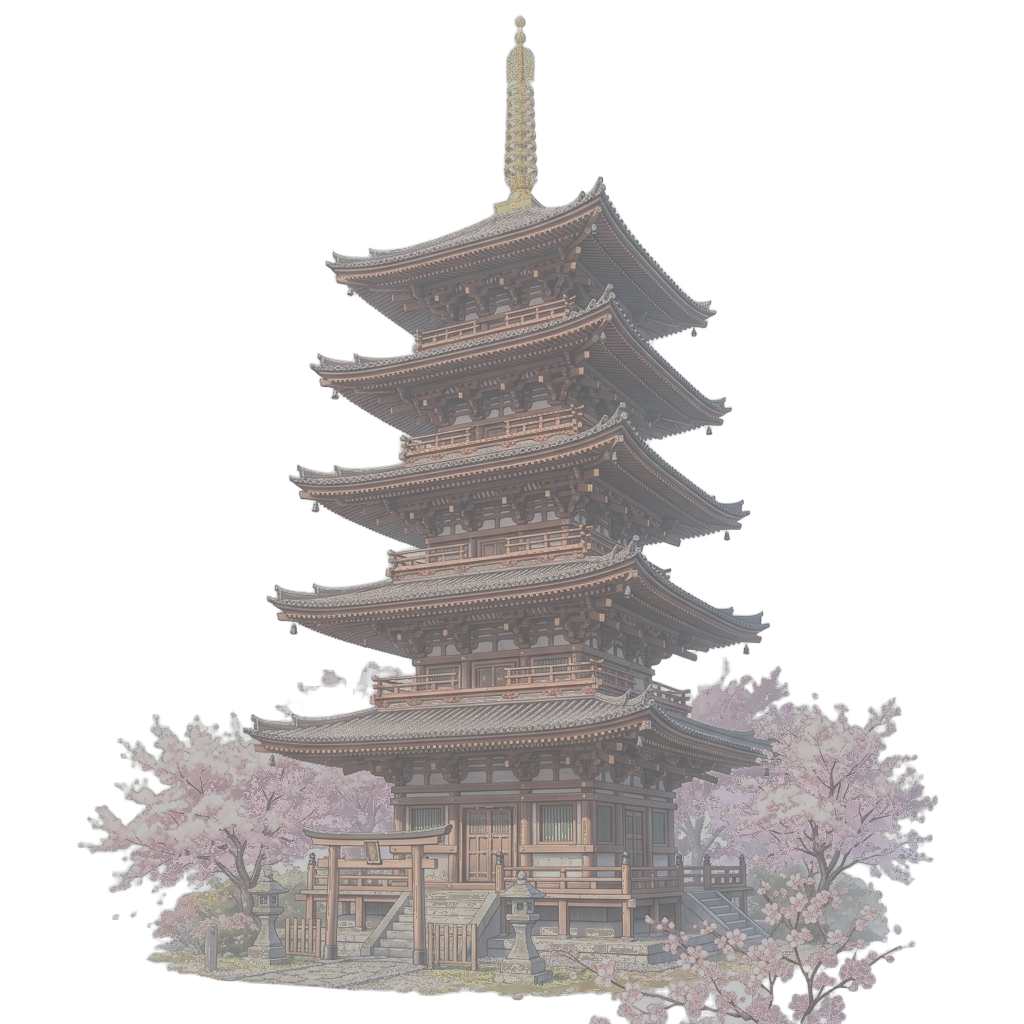
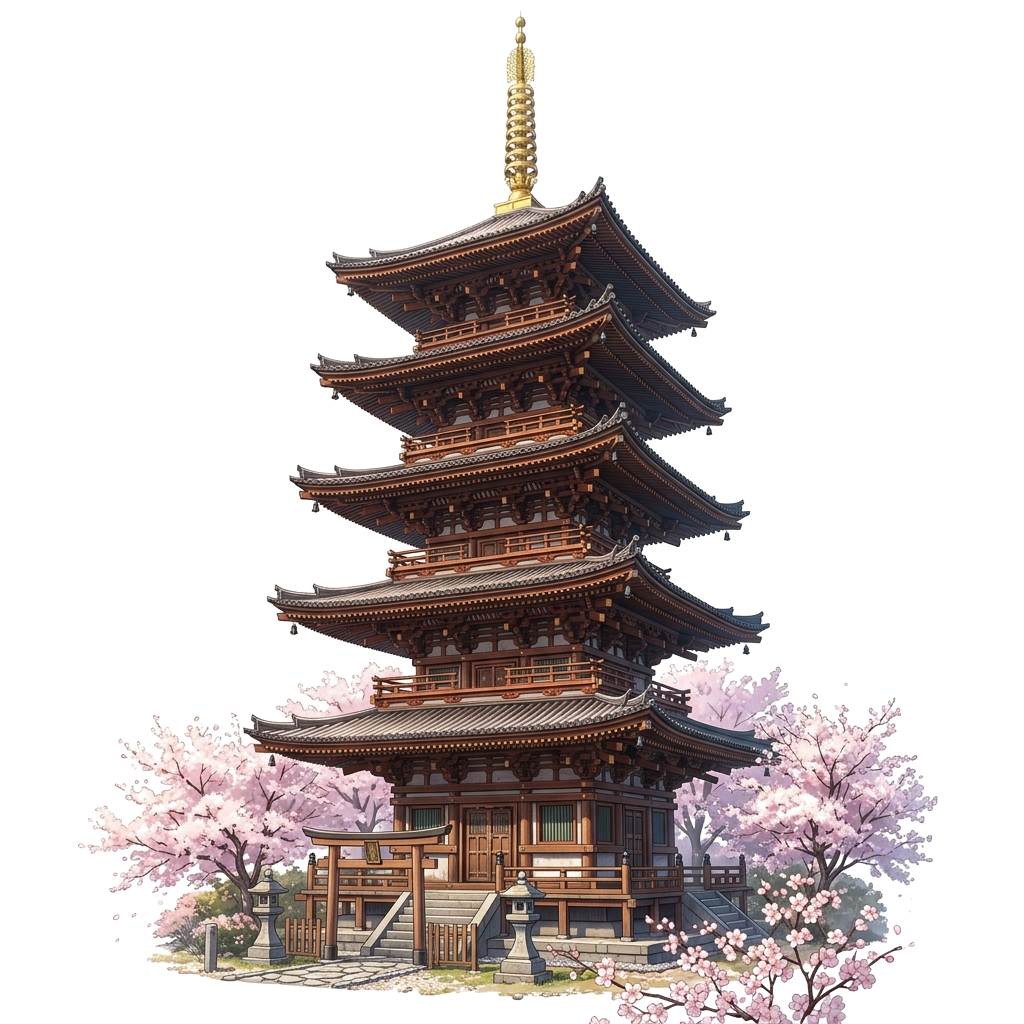
Apply user reference couple image style, restore smooth building cutouts, and enable trilinear mipmap texture filtering

diff --git a/index.html b/index.html
@@ -727,10 +727,10 @@
         // --- 8. HELPER FUNCTIONS & EXACT CHARACTER ASPECT RATIOS ---
         function createBillboard(texPath, width, height) {
             const tex = textureLoader.load(texPath);
-            if (THREE.SRGBColorSpace) tex.colorSpace = THREE.SRGBColorSpace;
-            else if (THREE.sRGBEncoding) tex.encoding = THREE.sRGBEncoding;
-            tex.minFilter = THREE.LinearFilter;
-            const mat = new THREE.MeshBasicMaterial({ map: tex, transparent: true, side: THREE.DoubleSide, alphaTest: 0.12, toneMapped: false });
+            tex.generateMipmaps = true;
+            tex.minFilter = THREE.LinearMipmapLinearFilter;
+            tex.magFilter = THREE.LinearFilter;
+            const mat = new THREE.MeshBasicMaterial({ map: tex, transparent: true, side: THREE.DoubleSide, alphaTest: 0.12 });
             return new THREE.Mesh(new THREE.PlaneGeometry(width, height), mat);
         }
 
@@ -739,9 +739,9 @@
             2: 674 / 1002,  // 0.673
             3: 616 / 934,   // 0.660
             4: 520 / 1002,  // 0.519
-            5: 694 / 989,   // 0.702
-            6: 3 / 4,       // 0.750
-            7: 527 / 955,   // 0.552
+            5: 3 / 4,       // 0.750 - Matching user reference art style
+            6: 3 / 4,       // 0.750 - Matching user reference art style
+            7: 527 / 955,   // 0.552 - Clean riverwalk couple cutout
             8: 772 / 1000   // 0.772
         };
 
@@ -753,8 +753,7 @@
                 transparent: true,
                 side: THREE.DoubleSide,
                 alphaTest: 0.15,
-                depthWrite: true,
-                toneMapped: false
+                depthWrite: true
             });
 
             const mesh = new THREE.Mesh(new THREE.PlaneGeometry(width, height), mat);
@@ -766,7 +765,7 @@
             sh.position.set(xPos, -1.33, zPos);
             multiplaneGroup.add(sh);
 
-            // DYNAMIC UN-STRETCHED ASPECT RATIO ADJUSTMENT FROM LOADED IMAGE DIMENSIONS
+            // DYNAMIC UN-STRETCHED ASPECT RATIO ADJUSTMENT & SMOOTH MIPMAP FILTERING
             const tex = textureLoader.load(imgPath, (t) => {
                 if (t.image && t.image.width && t.image.height) {
                     const actualAspect = t.image.width / t.image.height;
@@ -777,9 +776,9 @@
                     sh.geometry = new THREE.PlaneGeometry(correctW * 0.92, height * 0.32);
                 }
             });
-            if (THREE.SRGBColorSpace) tex.colorSpace = THREE.SRGBColorSpace;
-            else if (THREE.sRGBEncoding) tex.encoding = THREE.sRGBEncoding;
-            tex.minFilter = THREE.LinearFilter;
+            tex.generateMipmaps = true;
+            tex.minFilter = THREE.LinearMipmapLinearFilter;
+            tex.magFilter = THREE.LinearFilter;
             mat.map = tex;
 
             mesh.userData.noFade = true; // COUPLE IMAGES NEVER FADE OUT OR IN!
